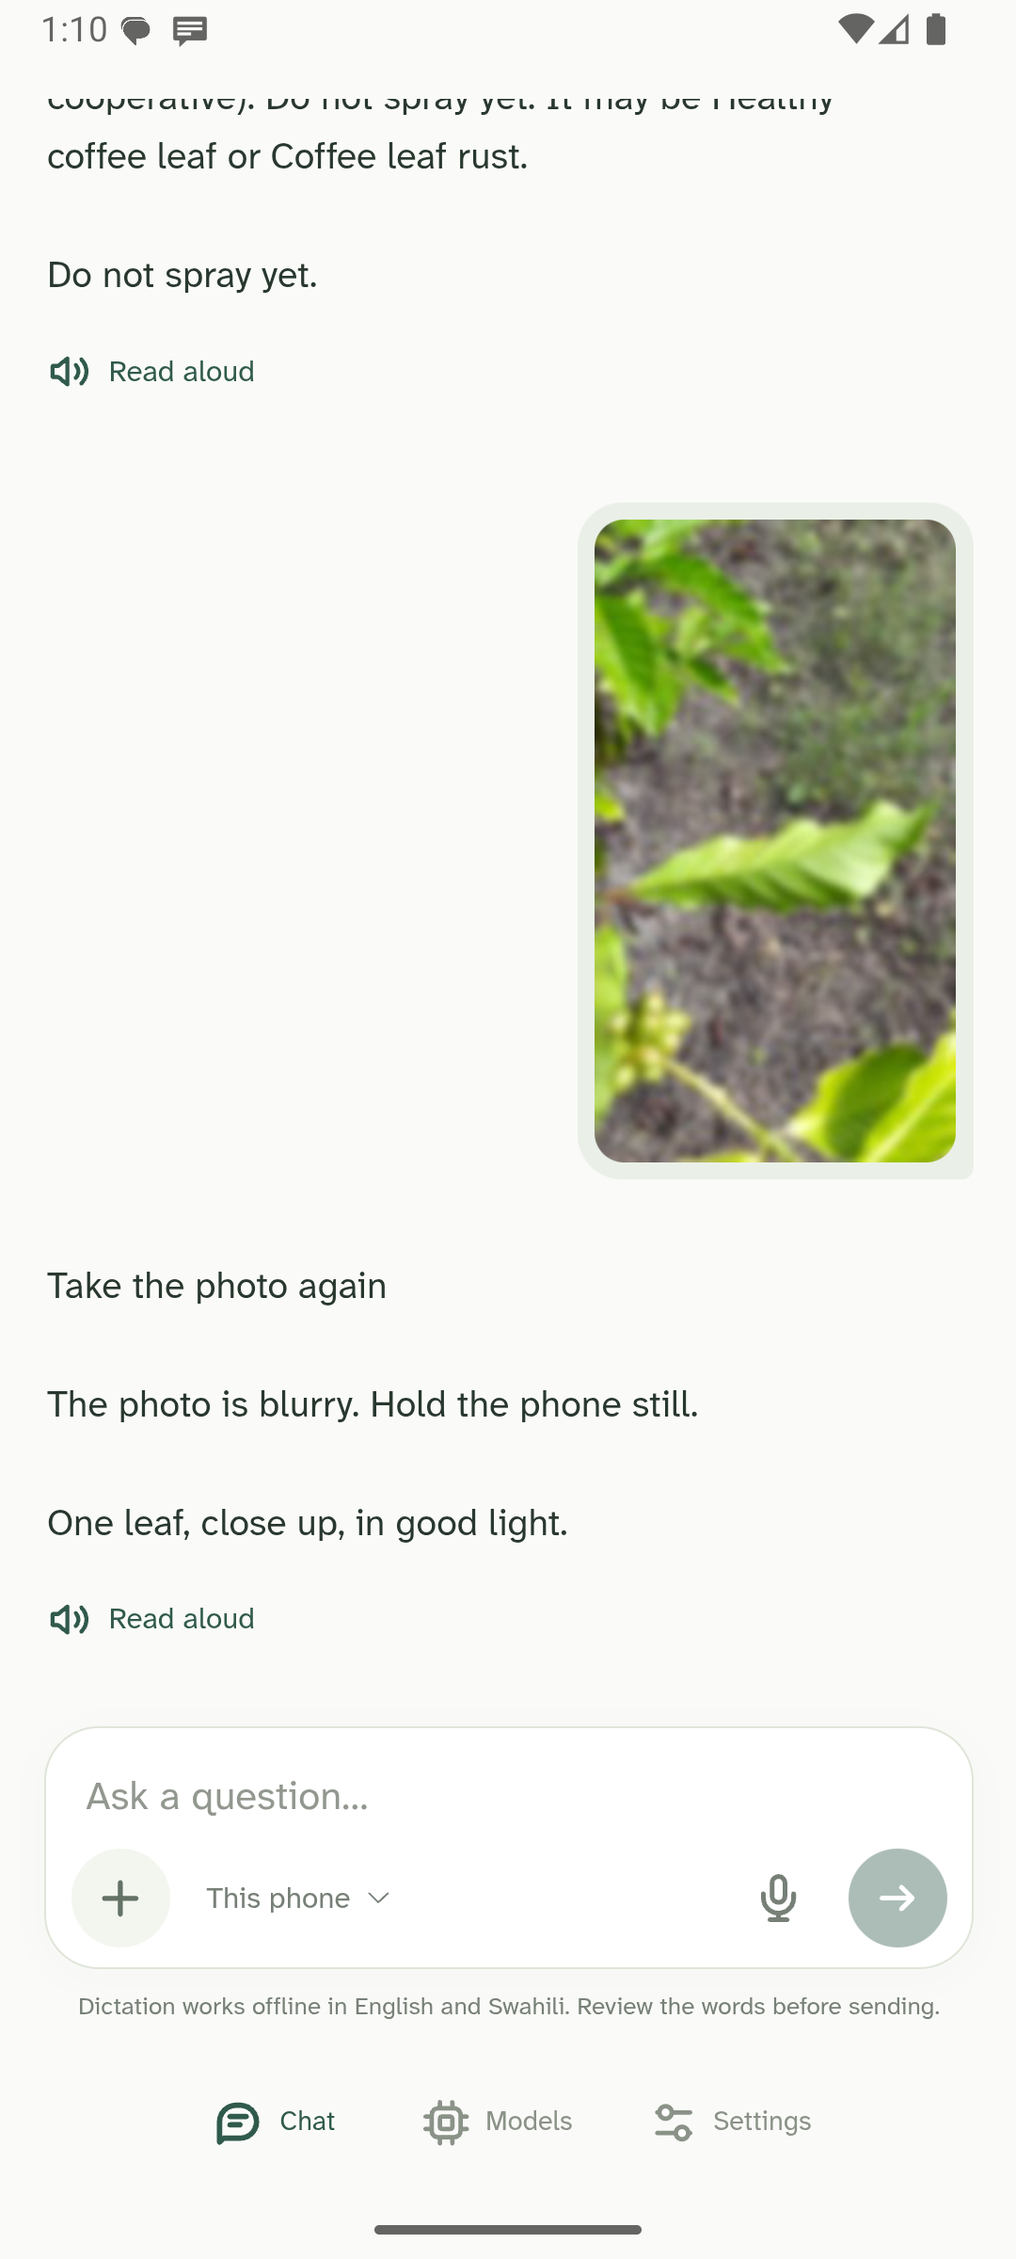
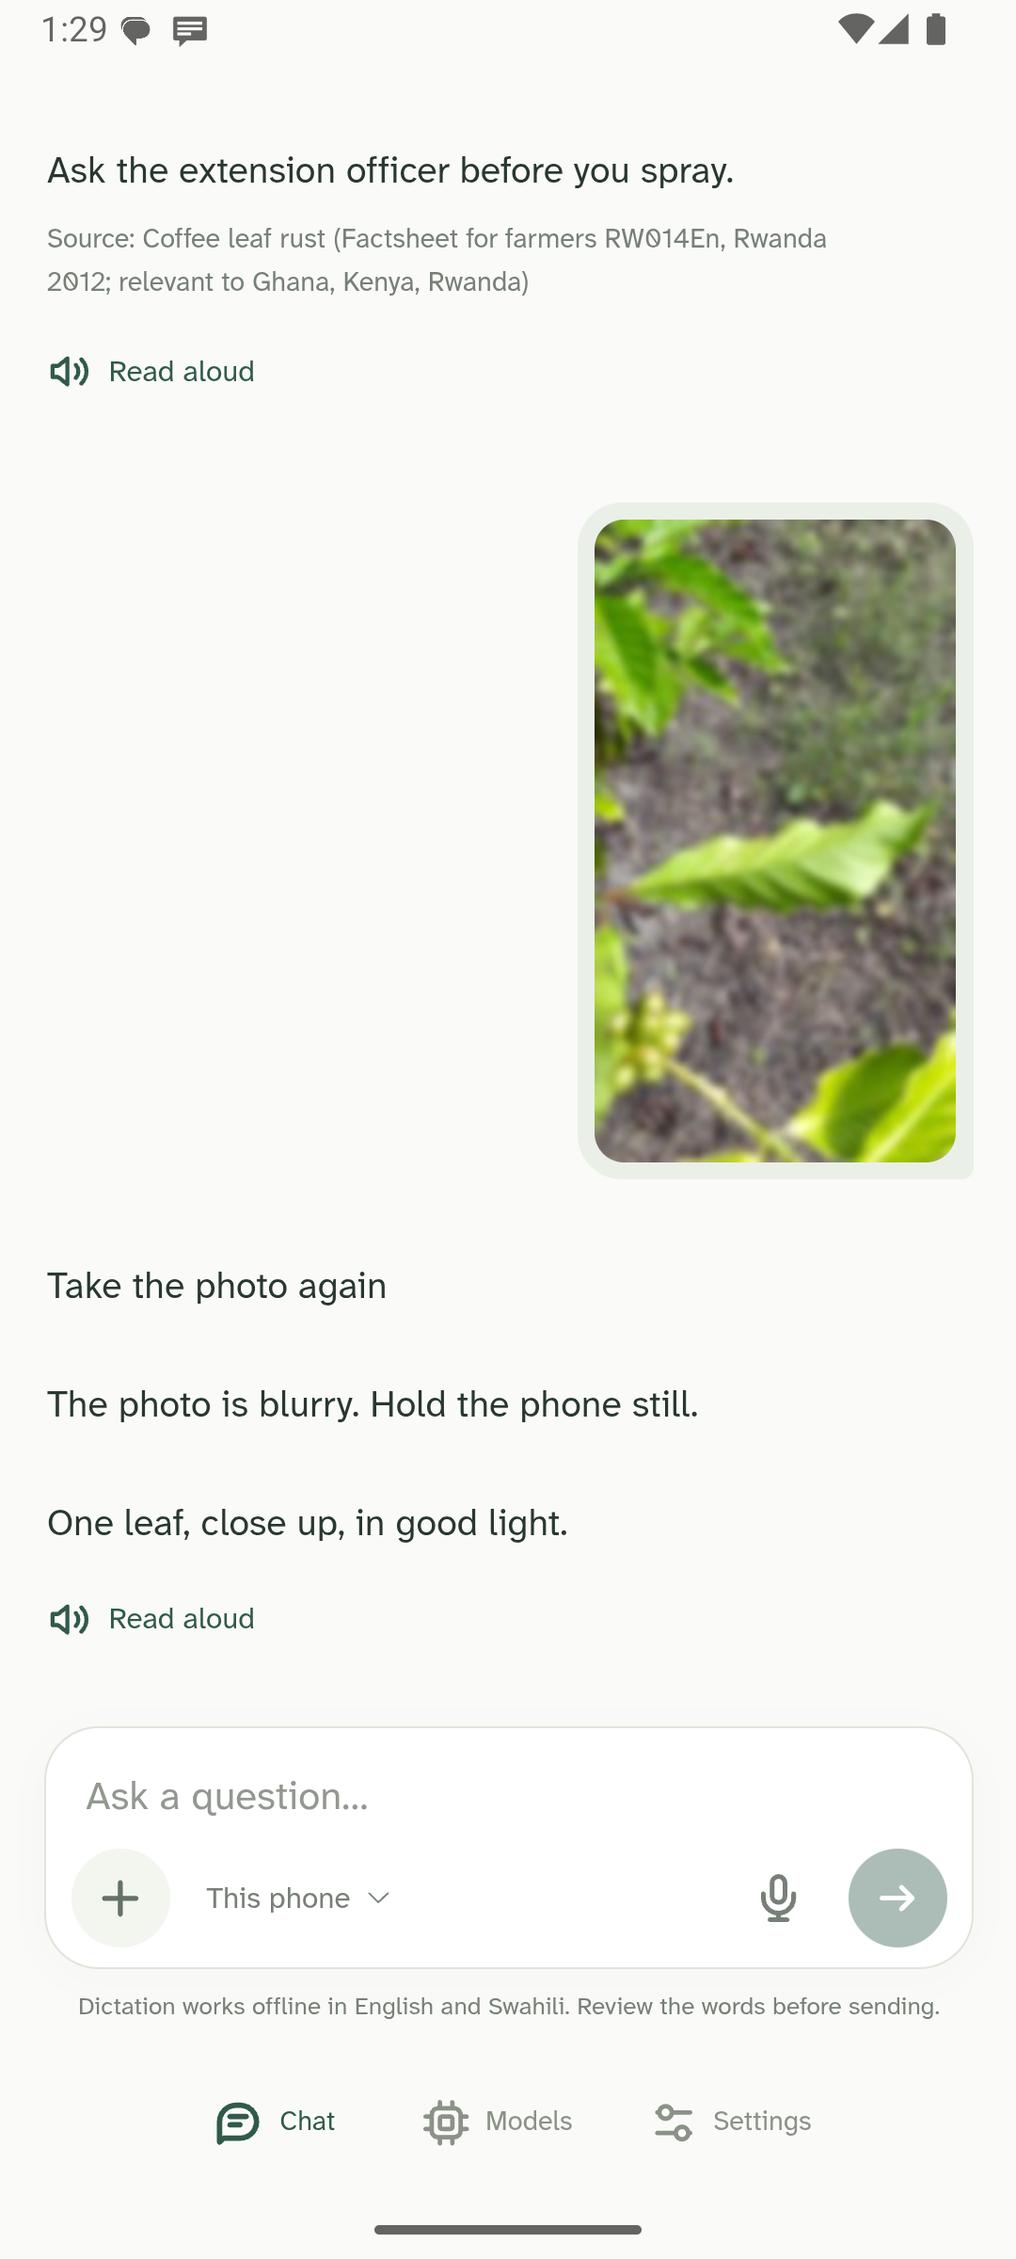
Product demo (59.9 s): script + ElevenLabs voice (Tom) + cut from the real app on both emulators; light product screens, Pandastic-green brand beats, Clash Display/Satoshi, animated SMS flight between the phones; footage and output stay in /product-demo/ (gitignored); distinct from B's technical wal

diff --git a/scripts/product-demo/cut.py b/scripts/product-demo/cut.py
@@ -1,0 +1,301 @@
+#!/usr/bin/env python3
+"""Cut the 60-second product film (docs/PRODUCT-DEMO.md): one punchline per frame, the real app on two phones.
+
+Inputs in product-demo/ (gitignored): vo/NN.mp3 (voice.py), raw/ (emulator footage), fonts/ (Clash Display, Satoshi
+from Fontshare), panda.png; app screens from docs/screenshots/demo/. Output: product-demo/pandastic-product-demo.mp4.
+"""
+import subprocess, sys
+from pathlib import Path
+from PIL import Image, ImageDraw, ImageFilter, ImageFont
+
+ROOT = Path(__file__).resolve().parents[2]
+DEMO = ROOT / 'product-demo'
+SHOTS = ROOT / 'docs' / 'screenshots' / 'demo'
+WORK = DEMO / 'work'
+W, H, FPS = 1920, 1080, 30
+# Light for the product screens, Pandastic green for the brand beats.
+LIGHT = dict(bg=(255, 255, 255), bg2=(243, 244, 241), ink=(17, 17, 17), muted=(110, 110, 115), leaf=(28, 120, 78), amber=(206, 116, 22))
+DARK = dict(bg=(18, 64, 43), bg2=(30, 92, 63), ink=(248, 245, 236), muted=(176, 204, 186), leaf=(150, 226, 176), amber=(246, 190, 92))
+BG, BG2, INK, MUTED, LEAF, AMBER = (LIGHT[k] for k in ('bg', 'bg2', 'ink', 'muted', 'leaf', 'amber'))
+RED, CHIP = (200, 52, 52), (243, 244, 246)
+CREAM = INK  # text color on light slides
+
+
+def font(size, kind='display'):
+    name = {'display': 'ClashDisplay-Semibold', 'bold': 'ClashDisplay-Bold', 'body': 'Satoshi-Medium',
+            'body-bold': 'Satoshi-Bold'}[kind]
+    return ImageFont.truetype(str(DEMO / 'fonts' / f'{name}.woff2'), size)
+
+
+def canvas(mark=True, dark=False):
+    th = DARK if dark else LIGHT
+    img = Image.new('RGB', (W, H), th['bg'])
+    glow = Image.new('L', (W, H), 0)
+    ImageDraw.Draw(glow).ellipse((300, 500, 2400, 1700), fill=140)  # a faint wash from the lower right
+    img.paste(Image.new('RGB', (W, H), th['bg2']), (0, 0), glow.filter(ImageFilter.GaussianBlur(260)))
+    if mark:
+        ImageDraw.Draw(img).text((140, H - 92), 'Pandastic', font=font(30, 'body-bold'), fill=th['muted'])
+    return img
+
+
+def center(d, y, s, f, fill):
+    d.text(((W - d.textlength(s, font=f)) / 2, y), s, font=f, fill=fill)
+
+
+def phone(shot, height=900):
+    s = Image.open(shot).convert('RGB')
+    sw = int(s.width * (height - 36) / s.height)
+    s = s.resize((sw, height - 36), Image.LANCZOS)
+    body = Image.new('RGBA', (sw + 36, height), (0, 0, 0, 0))
+    ImageDraw.Draw(body).rounded_rectangle((0, 0, sw + 35, height - 1), radius=56, fill=(8, 12, 10, 255))
+    mask = Image.new('L', s.size, 0)
+    ImageDraw.Draw(mask).rounded_rectangle((0, 0, s.width - 1, s.height - 1), radius=40, fill=255)
+    body.paste(s, (18, 18), mask)
+    out = Image.new('RGBA', (body.width + 120, body.height + 120), (0, 0, 0, 0))
+    ImageDraw.Draw(out).rounded_rectangle((60, 84, body.width + 60, body.height + 64), radius=60, fill=(0, 0, 0, 70))
+    out = out.filter(ImageFilter.GaussianBlur(32))
+    out.paste(body, (60, 60), body)
+    return out
+
+
+def punch(title, sub=None, shot=None, title_color=None, size=150, dark=False):
+    """One punchline (left) and one phone (right), or a centered punchline."""
+    th = DARK if dark else LIGHT
+    title_color = title_color or th['ink']
+    MUTED = th['muted']
+    img = canvas(dark=dark)
+    d = ImageDraw.Draw(img)
+    f = font(size)
+    if shot is None:
+        lines = title.split('\n')
+        y = (H - len(lines) * size * 1.05) / 2 - (40 if sub else 0)
+        for line in lines:
+            center(d, y, line, f, title_color)
+            y += size * 1.05
+        if sub:
+            center(d, y + 30, sub, font(46, 'body'), MUTED)
+        return img
+    p = phone(shot)
+    img.paste(p, (1160 - 60, (H - p.height) // 2), p)
+    lines = title.split('\n')
+    y = (H - len(lines) * size * 1.05) / 2 - (50 if sub else 0)
+    for line in lines:
+        d.text((140, y), line, font=f, fill=title_color)
+        y += size * 1.05
+    if sub:
+        d.text((146, y + 34), sub, font=font(44, 'body'), fill=MUTED)
+    return img
+
+
+def logo_card(tagline=None, dark=True):
+    """The app's panda (its SVG, rendered) over the wordmark. On white the panda sits on a soft gray disc."""
+    th = DARK if dark else LIGHT
+    img = canvas(mark=False, dark=dark)
+    d = ImageDraw.Draw(img)
+    size, top = 300, (200 if tagline else 240)
+    x = (W - size) // 2
+    if not dark:
+        d.ellipse((x - 20, top - 10, x + size + 20, top + size + 30), fill=(240, 241, 237))
+    mark = Image.open(DEMO / 'panda-mark.png').convert('RGBA').resize((size, size), Image.LANCZOS)
+    img.paste(mark, (x, top), mark)
+    center(d, top + size + 40, 'Pandastic', font(170, 'bold'), th['ink'])
+    if tagline:
+        center(d, top + size + 260, tagline, font(60, 'body-bold'), th['leaf'])
+    return img
+
+
+def two_phones(left_shot, right_shot, title, left_label, right_label, dark=False):
+    th = DARK if dark else LIGHT
+    MUTED = th['muted']
+    img = canvas(mark=False, dark=dark)
+    d = ImageDraw.Draw(img)
+    center(d, 70, title, font(96), th['ink'])
+    for shot, x, label in ((left_shot, 420, left_label), (right_shot, 1500, right_label)):
+        p = phone(shot, 760)
+        img.paste(p, (int(x - p.width / 2), 230 - 60), p)
+        f = font(32, 'body-bold')
+        d.text((x - d.textlength(label, font=f) / 2, 230 + 760 + 22), label, font=f, fill=MUTED)
+    return img
+
+
+# ---------- animated SMS flight ----------
+
+def ease(t):
+    t = max(0.0, min(1.0, t))
+    return 4 * t * t * t if t < 0.5 else 1 - (-2 * t + 2) ** 3 / 2
+
+
+def bezier(p0, p1, p2, t):
+    u = 1 - t
+    return (u * u * p0[0] + 2 * u * t * p1[0] + t * t * p2[0], u * u * p0[1] + 2 * u * t * p1[1] + t * t * p2[1])
+
+
+def envelope(d, x, y, color, label):
+    w, h = 132, 92
+    x0, y0 = x - w / 2, y - h / 2
+    d.rounded_rectangle((x0, y0, x0 + w, y0 + h), radius=14, fill=(255, 255, 255, 255), outline=color + (255,), width=5)
+    d.line((x0 + 8, y0 + 10, x, y0 + h * 0.58, x0 + w - 8, y0 + 10), fill=color + (255,), width=6, joint='curve')
+    f = font(28, 'body-bold')
+    lw = d.textlength(label, font=f) + 36
+    d.rounded_rectangle((x - lw / 2, y0 - 60, x + lw / 2, y0 - 14), radius=23, fill=color + (255,))
+    d.text((x - lw / 2 + 18, y0 - 55), label, font=f, fill=(255, 255, 255, 255))
+
+
+def sms_flow(dur, name):
+    """Noor's SMS flies to the daughter's phone, the phone reads it, the reply flies back. 8 s timeline, stretched."""
+    out = WORK / f'{name}.mp4'
+    ph = 780
+    k = dur / 8.0
+    left, after = phone(DEMO / 'raw' / 'sw-before.png', ph), phone(DEMO / 'raw' / 'sw-after.png', ph)
+    right = phone(SHOTS / '13-settings.png', ph)
+    lx, rx, py = 160, W - 160 - right.width + 120, 175
+    gap = ((lx + left.width - 120) + rx) / 2
+    base = canvas(mark=False).convert('RGBA')
+    d = ImageDraw.Draw(base)
+    center(d, 48, 'In her words. In seconds.', font(84), CREAM)
+    base_after = base.copy()
+    base.alpha_composite(left, (lx - 60, py - 60))
+    base_after.alpha_composite(after, (lx - 60, py - 60))
+    for b in (base, base_after):
+        b.alpha_composite(right, (rx - 60, py - 60))
+        bd = ImageDraw.Draw(b)
+        for cx, label in ((lx + (left.width - 120) / 2, "Noor · on the slope"), (rx + (right.width - 120) / 2, "Her daughter's phone · at home")):
+            f = font(30, 'body-bold')
+            bd.text((cx - bd.textlength(label, font=f) / 2, py + ph + 20), label, font=f, fill=MUTED)
+    a, b = (lx + left.width - 120 + 10, py + ph * 0.45), (rx - 10, py + ph * 0.45)
+    up, down = ((a[0] + b[0]) / 2, 150), ((a[0] + b[0]) / 2, 960)
+    chips = [('Read on the phone: coffee · a leaf problem', LEAF), ("Not sure from words: don't spray yet", CREAM),
+             ('Send a leaf photo tonight', AMBER)]
+    frames = int(dur * FPS)
+    proc = subprocess.Popen(['ffmpeg', '-v', 'error', '-y', '-f', 'rawvideo', '-pix_fmt', 'rgb24', '-s', f'{W}x{H}', '-r', str(FPS),
+                             '-i', '-', '-c:v', 'libx264', '-preset', 'veryfast', '-crf', '18', '-pix_fmt', 'yuv420p', str(out)],
+                            stdin=subprocess.PIPE)
+    for i in range(frames):
+        t = i / FPS / k
+        mix = ease((t - 6.3) / 0.6)
+        frame = Image.blend(base, base_after, mix) if 0 < mix < 1 else (base_after if mix >= 1 else base).copy()
+        o = Image.new('RGBA', (W, H), (0, 0, 0, 0))
+        od = ImageDraw.Draw(o)
+        if 0.5 <= t <= 2.6:
+            q = ease((t - 0.5) / 2.1)
+            for j in range(1, 7):
+                x, y = bezier(a, up, b, max(0, q - j * 0.03))
+                od.ellipse((x - 7, y - 7, x + 7, y + 7), fill=LEAF + (150 - j * 20,))
+            envelope(od, *bezier(a, up, b, q), LEAF, 'majani ya kahawa…')
+        if 2.5 <= t <= 6.4:
+            for r in range(3):
+                s = ((t - 2.5) * 0.9 + r / 3) % 1
+                pad = 10 + s * 70
+                od.rounded_rectangle((rx - pad, py - pad, rx + right.width - 120 + pad, py + ph + pad), radius=60 + pad / 2,
+                                     outline=LEAF + (int(200 * (1 - s)),), width=5)
+        for n, (label, color) in enumerate(chips):
+            show = ease((t - (2.9 + n * 0.8)) / 0.35) * (1 - ease((t - 6.6) / 0.4))
+            if show > 0:
+                f = font(28, 'body-bold')
+                cw = od.textlength(label, font=f) + 40
+                cx, cy = gap - cw / 2, 380 + n * 84 + (1 - show) * 30
+                od.rounded_rectangle((cx, cy, cx + cw, cy + 60), radius=30, fill=CHIP + (int(250 * show),),
+                                     outline=color + (int(255 * show),), width=3)
+                od.text((cx + 20, cy + 13), label, font=f, fill=color + (int(255 * show),))
+        if 4.9 <= t <= 6.6:
+            q = ease((t - 4.9) / 1.7)
+            for j in range(1, 7):
+                x, y = bezier(b, down, a, max(0, q - j * 0.03))
+                od.ellipse((x - 7, y - 7, x + 7, y + 7), fill=AMBER + (150 - j * 20,))
+            envelope(od, *bezier(b, down, a, q), AMBER, 'Reply · SMS')
+        cap = ease((t - 6.8) / 0.5)
+        if cap > 0:
+            f = font(64)
+            for n, label in enumerate(('No internet.', 'Just SMS.')):
+                od.text((gap - od.textlength(label, font=f) / 2, 430 + n * 90), label, font=f,
+                        fill=(LEAF if n else CREAM) + (int(255 * cap),))
+        frame.alpha_composite(o)
+        proc.stdin.write(frame.convert('RGB').tobytes())
+    proc.stdin.close()
+    proc.wait()
+    return out
+
+
+# ---------- ffmpeg ----------
+
+def run(cmd):
+    r = subprocess.run(cmd, capture_output=True, text=True)
+    if r.returncode:
+        sys.exit(' '.join(map(str, cmd)) + '\n' + r.stderr[-2000:])
+
+
+def duration(path):
+    return float(subprocess.run(['ffprobe', '-v', 'error', '-show_entries', 'format=duration', '-of', 'csv=p=0', str(path)],
+                                capture_output=True, text=True).stdout.strip())
+
+
+def still(img, dur, name, zoom=None):
+    """A static frame (no push-in: it read as an odd zoom). zoom is ignored, kept for the call sites."""
+    png, out = WORK / f'{name}.png', WORK / f'{name}.mp4'
+    img.save(png)
+    run(['ffmpeg', '-v', 'error', '-y', '-loop', '1', '-framerate', str(FPS), '-i', str(png), '-t', str(dur),
+         '-vf', 'format=yuv420p', '-c:v', 'libx264', '-preset', 'veryfast', '-crf', '18', '-tune', 'stillimage', str(out)])
+    return out
+
+
+def scene(n, parts):
+    lst = WORK / f'scene{n}.txt'
+    lst.write_text(''.join(f"file '{c}'\n" for c, _ in parts))
+    v = WORK / f'scene{n}-v.mp4'
+    run(['ffmpeg', '-v', 'error', '-y', '-f', 'concat', '-safe', '0', '-i', str(lst), '-c', 'copy', str(v)])
+    total = sum(s for _, s in parts)
+    out = WORK / f'scene{n}.mp4'
+    run(['ffmpeg', '-v', 'error', '-y', '-i', str(v), '-i', str(DEMO / 'vo' / f'{n:02d}.mp3'), '-filter_complex',
+         f"[1:a]adelay=200|200,apad,atrim=0:{total},aresample=44100[a];[0:v]fade=t=in:st=0:d=0.2,fade=t=out:st={total - 0.2}:d=0.2[v]",
+         '-map', '[v]', '-map', '[a]', '-c:v', 'libx264', '-preset', 'veryfast', '-crf', '18', '-c:a', 'aac', '-b:a', '192k',
+         '-ac', '2', '-t', str(total), str(out)])
+    return out
+
+
+def main():
+    WORK.mkdir(parents=True, exist_ok=True)
+    vo = {n: duration(DEMO / 'vo' / f'{n:02d}.mp3') + 0.6 for n in range(1, 10)}
+    s = []
+    d = vo[1]
+    d += 1.0
+    s.append(scene(1, [(still(punch('1 officer.', size=190, dark=True), 2.2, 'p1a', 0.02), 2.2),
+                       (still(punch('1,800 farmers.', 'Uganda · UFAAS 2023', title_color=DARK['amber'], size=190, dark=True), d - 2.2, 'p1b'), d - 2.2)]))
+    d = vo[2] + 1.2
+    s.append(scene(2, [(still(punch('Noor waits\nmonths.', size=170, dark=True), 2.4, 'p2a', 0.02), 2.4),
+                       (still(logo_card(dark=False), d - 2.4, 'p2b', 0.04), d - 2.4)]))
+    s.append(scene(3, [(sms_flow(vo[3] + 1.6, 'p3'), vo[3] + 1.6)]))
+    d = max(vo[4] + 1.2, 6.0)
+    s.append(scene(4, [(still(punch('Just ask.', 'Photo in. Plain words out.', SHOTS / '03-photo-rust.png'), d, 'p4'), d)]))
+    d = max(vo[5] + 1.2, 6.0)
+    s.append(scene(5, [(still(punch("It knows\nwhen it\ndoesn't know.", 'Not sure? It sends her to a person.', SHOTS / '04-photo-not-sure.png',
+                                    size=120), d, 'p5'), d)]))
+    d = max(vo[6] + 1.2, 6.0)
+    s.append(scene(6, [(still(punch('Sell with\nproof.', "The buyer's offer vs the official price.", SHOTS / '08-chat-price.png', size=140),
+                              d, 'p6'), d)]))
+    d = max(vo[7] + 1.2, 5.5)
+    s.append(scene(7, [(still(punch('Family\nstays family.', 'Personal texts get no reply.', DEMO / 'raw' / 'family.png', size=130),
+                              d, 'p7'), d)]))
+    d = max(vo[8] + 1.2, 6.0)
+    s.append(scene(8, [(still(two_phones(DEMO / 'raw' / 'sw-after.png', DEMO / 'raw' / 'helper-home.png', 'No servers. No data bundle.',
+                                         'Her basic phone', "Her daughter's phone", dark=True), d, 'p8', 0.02), d)]))
+    d = vo[9] + 2.3
+    s.append(scene(9, [(still(logo_card('Small AI, where the farm is.', dark=True), d, 'p9', 0.03), d)]))
+    lst = WORK / 'all.txt'
+    lst.write_text(''.join(f"file '{c}'\n" for c in s))
+    joined = WORK / 'joined.mp4'
+    run(['ffmpeg', '-v', 'error', '-y', '-f', 'concat', '-safe', '0', '-i', str(lst), '-c', 'copy', str(joined)])
+    out = DEMO / 'pandastic-product-demo.mp4'
+    total = duration(joined)
+    music = DEMO / 'music.mp3'  # ElevenLabs Music, generated for this film
+    if music.exists():  # a quiet bed under the voice, faded in and out
+        run(['ffmpeg', '-v', 'error', '-y', '-i', str(joined), '-stream_loop', '-1', '-i', str(music), '-filter_complex',
+             f"[1:a]atrim=0:{total},volume=0.16,afade=t=in:st=0:d=0.8,afade=t=out:st={total - 2.5}:d=2.5[m];"
+             "[0:a][m]amix=inputs=2:duration=first:normalize=0[a]",
+             '-map', '0:v', '-map', '[a]', '-c:v', 'copy', '-c:a', 'aac', '-b:a', '192k', '-movflags', '+faststart', str(out)])
+    else:
+        run(['ffmpeg', '-v', 'error', '-y', '-i', str(joined), '-c', 'copy', '-movflags', '+faststart', str(out)])
+    print(out, round(duration(out), 1), 's')
+
+
+if __name__ == '__main__':
+    main()

diff --git a/scripts/product-demo/voice.py b/scripts/product-demo/voice.py
@@ -1,0 +1,52 @@
+#!/usr/bin/env python3
+"""Voice-over for the product demo: one MP3 per scene of docs/PRODUCT-DEMO.md, read by ElevenLabs.
+
+Needs ELEVEN_LABS_API_KEY in the environment or in ../.env (never committed). Writes product-demo/vo/NN.mp3.
+"""
+import json, os, re, sys, urllib.request
+from pathlib import Path
+
+ROOT = Path(__file__).resolve().parents[2]
+VOICE = os.environ.get('VOICE_ID', 'EvXuVNqs50Ub7YdFSesj')  # Tom, British
+MODEL = 'eleven_multilingual_v2'
+
+
+def api_key():
+    if os.environ.get('ELEVEN_LABS_API_KEY'):
+        return os.environ['ELEVEN_LABS_API_KEY']
+    for env in (ROOT / '.env', ROOT.parent / '.env'):
+        if env.exists():
+            for line in env.read_text().splitlines():
+                if line.startswith('ELEVEN_LABS_API_KEY='):
+                    return line.split('=', 1)[1].strip().strip('"')
+    sys.exit('ELEVEN_LABS_API_KEY not set (environment or .env)')
+
+
+def scenes():
+    """(number, voice-over) from the table in docs/PRODUCT-DEMO.md (the last column)."""
+    rows = []
+    for line in (ROOT / 'docs' / 'PRODUCT-DEMO.md').read_text().splitlines():
+        cells = [c.strip() for c in line.strip().strip('|').split('|')]
+        if len(cells) >= 3 and cells[0].isdigit():
+            rows.append((int(cells[0]), re.sub(r'\*\*|`', '', cells[-1])))
+    return rows
+
+
+def main():
+    out = ROOT / 'product-demo' / 'vo'
+    out.mkdir(parents=True, exist_ok=True)
+    key = api_key()
+    only = {int(a) for a in sys.argv[1:]}
+    for number, text in scenes():
+        if only and number not in only:
+            continue
+        body = json.dumps({'text': text, 'model_id': MODEL,
+                           'voice_settings': {'stability': 0.45, 'similarity_boost': 0.8, 'style': 0.25}}).encode()
+        req = urllib.request.Request(f'https://api.elevenlabs.io/v1/text-to-speech/{VOICE}?output_format=mp3_44100_128',
+                                     body, {'xi-api-key': key, 'Content-Type': 'application/json'})
+        (out / f'{number:02d}.mp3').write_bytes(urllib.request.urlopen(req, timeout=120).read())
+        print(f'scene {number}: {len(text)} characters')
+
+
+if __name__ == '__main__':
+    main()

diff --git a/docs/PRODUCT-DEMO.md b/docs/PRODUCT-DEMO.md
@@ -1,0 +1,31 @@
+# Product demo (under 60 s)
+
+This is the product film; B's technical walkthrough is separate. Each frame has one punchline and one phone, all real
+app footage.
+
+- **Type:** Clash Display for headlines, Satoshi for supporting lines.
+- **Look:** white, Apple-simple: near-black type, Pandastic green as the only accent, real phones with soft shadows.
+- **Voice:** ElevenLabs "Tom", British (`EvXuVNqs50Ub7YdFSesj`). Run `python3 scripts/product-demo/voice.py`.
+- **Music:** generated with ElevenLabs Music for this film (`product-demo/music.mp3`).
+- **Cut:** `python3 scripts/product-demo/cut.py` writes `product-demo/pandastic-product-demo.mp4`. Output and footage
+  stay in `product-demo/` (gitignored).
+
+| # | On screen | Voice-over |
+| :-- | :-- | :-- |
+| 1 | **1 officer.** → **1,800 farmers.** | In Uganda, one extension officer serves eighteen hundred farmers. |
+| 2 | **Noor waits months.** → panda + **Pandastic** | Noor waits months for an answer. Pandastic puts one in her house. |
+| 3 | Two real phones. Noor's Swahili SMS flies to the house; the phone reads it; the reply flies back. **In her words. In seconds.** | From the slope, she texts in Swahili, in her own words. The phone at home reads it and texts back in seconds: don't spray yet, send a photo tonight. |
+| 4 | Leaf photo + the chat's own words. **Just ask.** | In the evening, she just asks. Like a neighbour who knows coffee. |
+| 5 | A leaf it can't call. **It knows when it doesn't know.** | And when it can't tell, it says so, and points her to a person. |
+| 6 | The buyer's offer against the official price. **Sell with proof.** | Before the buyer's truck leaves, she knows if his price is fair. |
+| 7 | Her text to her daughter, no reply. **Family stays family.** | Her texts to her daughter? It stays silent. |
+| 8 | Both phones. **No servers. No data bundle.** | No servers, no data bundle. Just the phones they already have. |
+| 9 | Panda. **Pandastic.** *Small AI, where the farm is.* | Pandastic. Small AI, where the farm is. |
+
+Not in this film, because B's technical walkthrough (`video/`) covers them: the photo checks, the classifier
+scores, accuracy numbers and model sizes. The price check is shared core functionality, so it's shown here as the
+helper chat's price card, with different wording.
+
+**Sources:**
+- 1 officer per ~1,800 farmers: UFAAS 2023 (`docs/DATA.md` §1).
+- Every screen is the real app on the emulators (`product-demo/raw/`, `docs/screenshots/demo/`).
